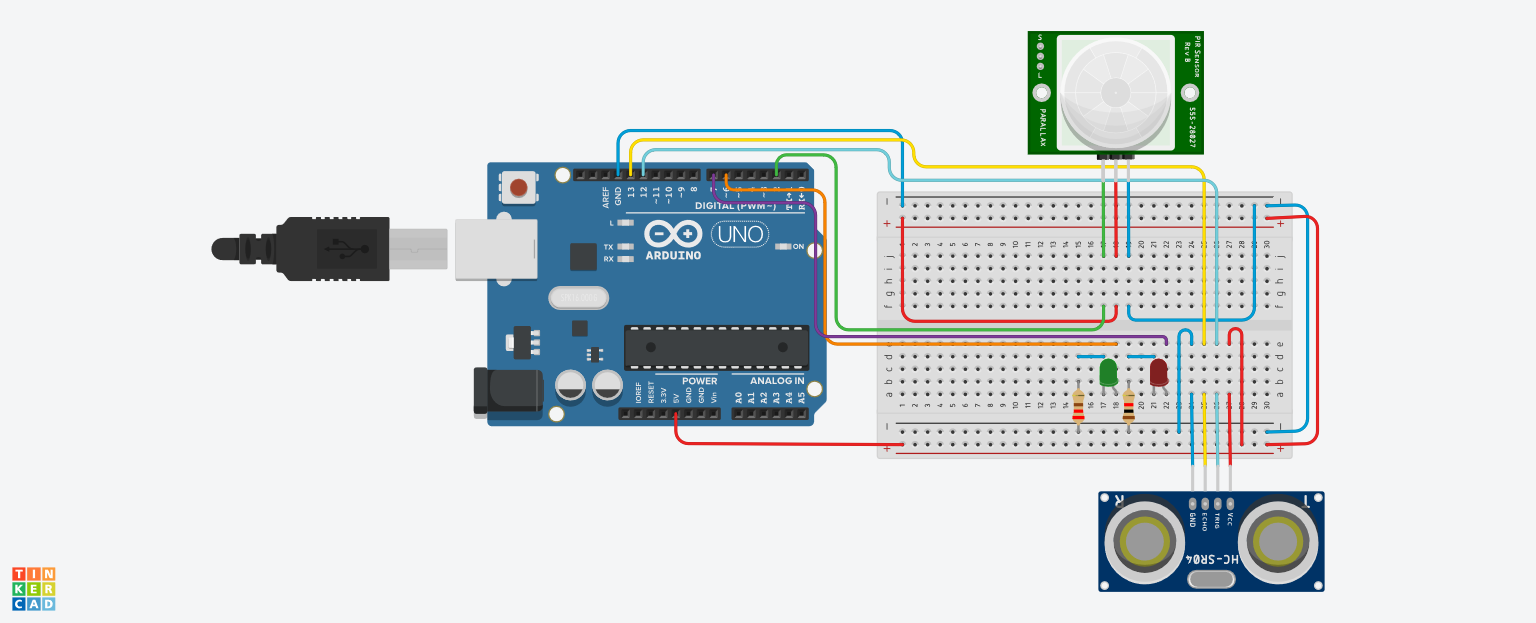
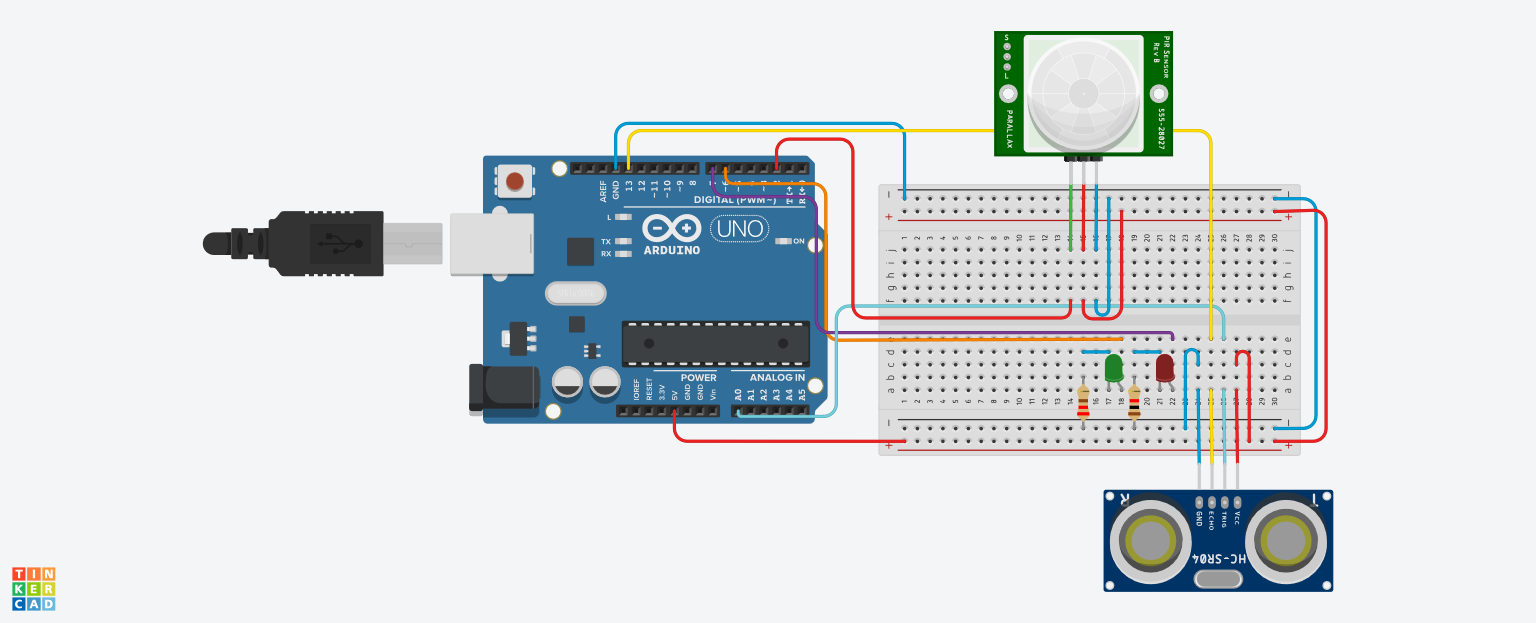
Task 1.3C Updated

Changed region(s): [[0.125, 0.0305, 0.875, 0.9454]]

diff --git a/Module2/Activity_3.3_Code.cpp b/Module2/Activity_3.3_Code.cpp
@@ -1,0 +1,61 @@
+// C++ code
+//
+
+const byte LED_PIN = 13;
+const byte METER_PIN = A4;
+
+double timerFrequency = 0;
+double val = 0;
+
+void setup()
+{
+  pinMode(LED_PIN, OUTPUT);
+  pinMode(METER_PIN, INPUT);
+
+  Serial.begin(9600);
+
+  timerFrequency = 0.5;
+  startTimer(timerFrequency);
+}
+
+void loop()
+{
+  // Code for reading the potentiometer sensor
+  val = analogRead(METER_PIN); // Read the value from the sensor
+
+  val = val / 100;     // Divide it by 100 to make the value smaller for the frequency
+  Serial.println(val); // Prints the potentiometer value
+
+  startTimer(val); // Pass the potentiometer value as the timerFrequency
+
+  delay(1000); // Wait for 1 second
+}
+
+void startTimer(double timerFrequency)
+{
+  noInterrupts();
+
+  TCCR1A = 0; // Set entire TCCR1A register to 0
+  TCCR1B = 0; // Do the same for TCCR1B register
+  TCNT1 = 0;  // Initialize counter value to 0, max for timer1 is 65535
+
+  // Set compare match register to the desired timer count
+  OCR1A = (16000000 / (1024 * timerFrequency) - 1);
+
+  // Compare match register for blinking every 2 second
+  // is 31250 = (16*10^6 * 2) / (1*1024) - 1 (for 2 second)
+
+  // turn on CTC mode
+  TCCR1B |= (1 << WGM12);
+  // Set CS10 and CS12 bits for 1024 prescaler
+  TCCR1B |= (1 << CS12) | (1 << CS10);
+  // enable timer compare interrupt
+  TIMSK1 |= (1 << OCIE1A);
+
+  interrupts();
+}
+
+ISR(TIMER1_COMPA_vect)
+{
+  digitalWrite(LED_PIN, digitalRead(LED_PIN) ^ 1);
+}

diff --git a/Module1/Task1.3C.cpp b/Module1/Task1.3C.cpp
@@ -1,10 +1,10 @@
 // C++ code
 //
-const int pirPin = 2;      // PIR Pin
-const int echoPin = 13;    // Ultrasonic Echo Pin
-const int trigPin = 12;    // Ultrasonic Trigger Pin
-const int ledRedPin = 7;   // LED RED Pin
-const int ledGreenPin = 6; // LED GREEN Pin
+const byte pirPin = 2;
+const byte echoPin = 13;    // Ultrasonic Echo Pin
+const byte trigPin = A0;    // Ultrasonic Trigger Pin
+const byte ledRedPin = 7;   // LED RED Pin
+const byte ledGreenPin = 6; // LED GREEN Pin
 volatile byte ledState = HIGH;
 volatile byte pirState = LOW;
 
@@ -16,7 +16,7 @@ void setup()
     pinMode(echoPin, INPUT);       // Set the pin for echo
     pinMode(ledRedPin, OUTPUT);    // Set the pin for LED RED
     pinMode(ledGreenPin, OUTPUT);  // Set the pin for LED GREEN
-    attachInterrupt(digitalPinToInterrupt(pirPin), turnLED, CHANGE);
+    attachInterrupt(digitalPinToInterrupt(pirPin), turnLED, RISING);
 }
 
 void loop()
@@ -47,7 +47,7 @@ void loop()
 void turnLED()
 {
     ledState = !ledState;
-    Serial.print("Interrupted!");
+    Serial.print("Motion Detected! Interrupted!");
     Serial.println();
-    delay(3000);
+    delay(2000);
 }
